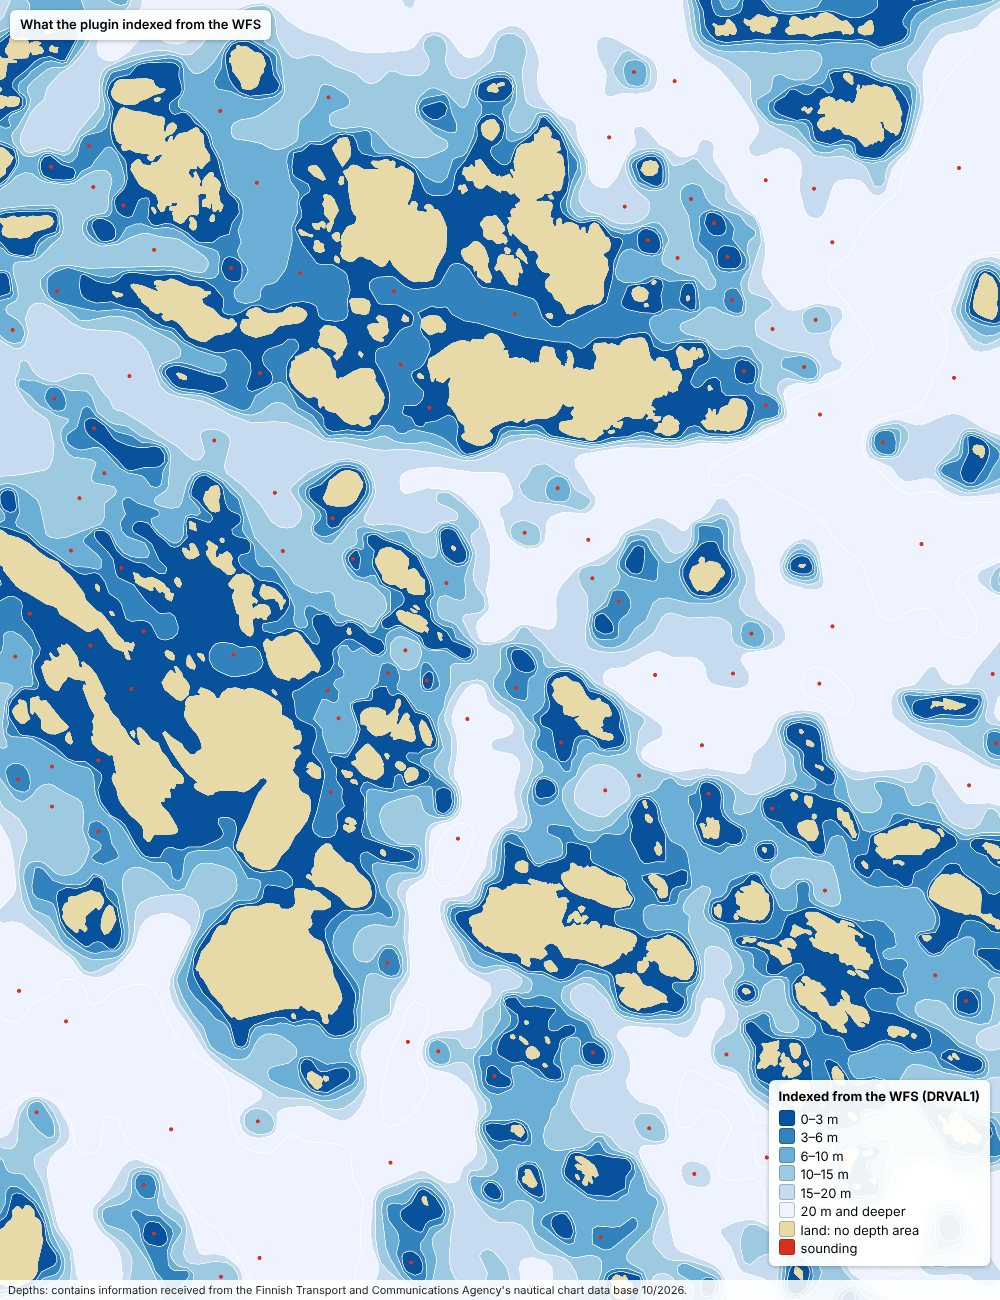
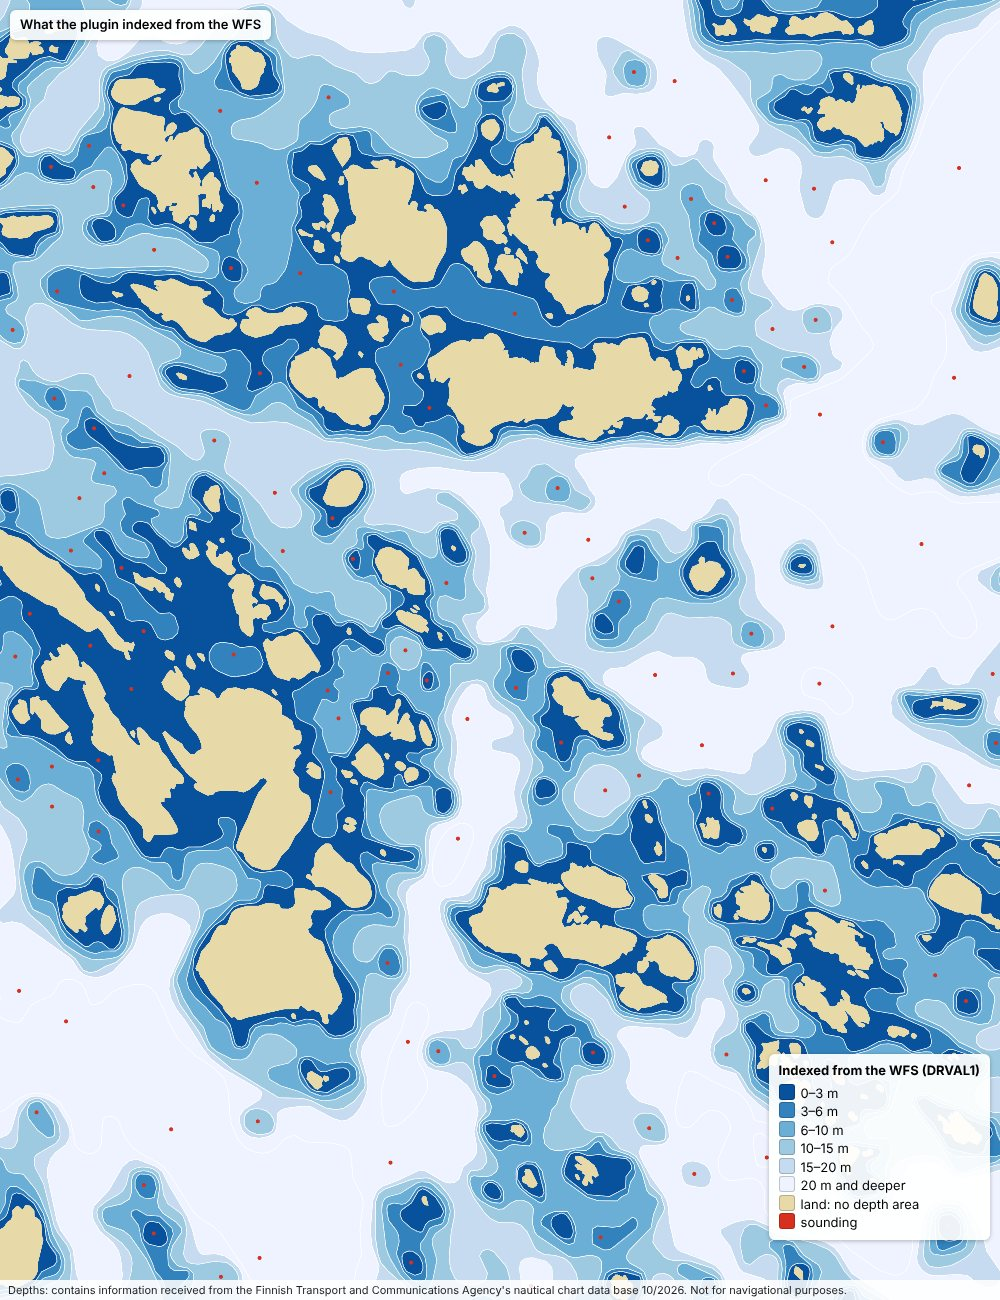
docs: not-for-navigation notice on WFS data; carry an official chart
The README and guide banner now say the plugin is a non-commercial
advisory aid and that an official nautical chart, paper or ENC, must be
carried and used. The guide states in bold that the Traficom WFS data and
every screenshot drawn from it are not for navigational purposes, and the
eight WFS-based screenshots repeat that notice in their footer. The
look-ahead screenshots were re-rendered on the same build and positions;
the states and reasons are unchanged.

Claude-Session: https://claude.ai/code/session_01RqAaJ4mFiWNeCzGpoFBYWA

Changed region(s): [[0.682, 0.8, 0.992, 1.0]]

diff --git a/docs/HOW-IT-WORKS.md b/docs/HOW-IT-WORKS.md
@@ -4,8 +4,8 @@ This guide follows the plugin from chart files to an alarm on the plotter, with 
 it uses at each step. The [development plan](DEVELOPMENT-PLAN.md) holds the design and its
 rationale; the [README](../README.md) lists the REST endpoints and the chart export command.
 
-> Advisory navigation aid. Not ECDIS, and not a replacement for official charts or a proper
-> lookout.
+> Advisory navigation aid, non-commercial. Not ECDIS, and not a replacement for official charts
+> or a proper lookout: always carry and use an official nautical chart, paper or ENC.
 
 ## Contents
 
@@ -35,7 +35,8 @@ length 12 m and beam 4 m; the water level is set manually to +0.2 m.
 - **Depths the plugin used:** contains information received from the Finnish Transport and
   Communications Agency's nautical chart data base 10/2026, under the
   [Traficom hydrographic data license](https://julkinen.traficom.fi/inspirepalvelu/rajoitettu/wfs?request=getcapabilities),
-  which allows non-navigational use only. The plugin indexed the WFS layers `DepthArea_A` and
+  which allows non-navigational use only. **The WFS data, and every screenshot drawn from it,
+  is not for navigational purposes.** The plugin indexed the WFS layers `DepthArea_A` and
   `Sounding_P`, fetched 2026-10-18 for 22.02–22.15° E, 60.025–60.125° N, as one cell named
   `FI4WFS01`.
 - **What the WFS lacks:** land, rocks, wrecks, obstructions and survey quality (`M_QUAL`). For
@@ -45,7 +46,8 @@ length 12 m and beam 4 m; the water level is set manually to +0.2 m.
   (`/ukc-style.json`, `/envelope`, `/route-check`) over the WMS with MapLibre GL. They were not
   taken in a chart plotter.
 
-The chart data is not in this repository; only the screenshots are.
+The chart data is not in this repository; only the screenshots are. Each map screenshot repeats
+the attribution and the not-for-navigation notice in its footer.
 
 ## 2. The whole picture
 

diff --git a/README.md b/README.md
@@ -4,8 +4,8 @@ Under-keel clearance awareness for Signal K. The plugin turns S-57 chart data in
 queryable hazard model on the server and publishes look-ahead grounding risk, route checks
 and own-sounding discrepancies for chartplotters such as Freeboard-SK.
 
-> Advisory navigation aid. Not ECDIS, and not a replacement for official charts or a proper
-> lookout.
+> Advisory navigation aid, non-commercial. Not ECDIS, and not a replacement for official charts
+> or a proper lookout: always carry and use an official nautical chart, paper or ENC.
 
 With a chart index and a configured draft, the plugin checks a straight cone along COG every
 second. For each footprint it computes P(UKC < 0) from the charted depth and its survey
